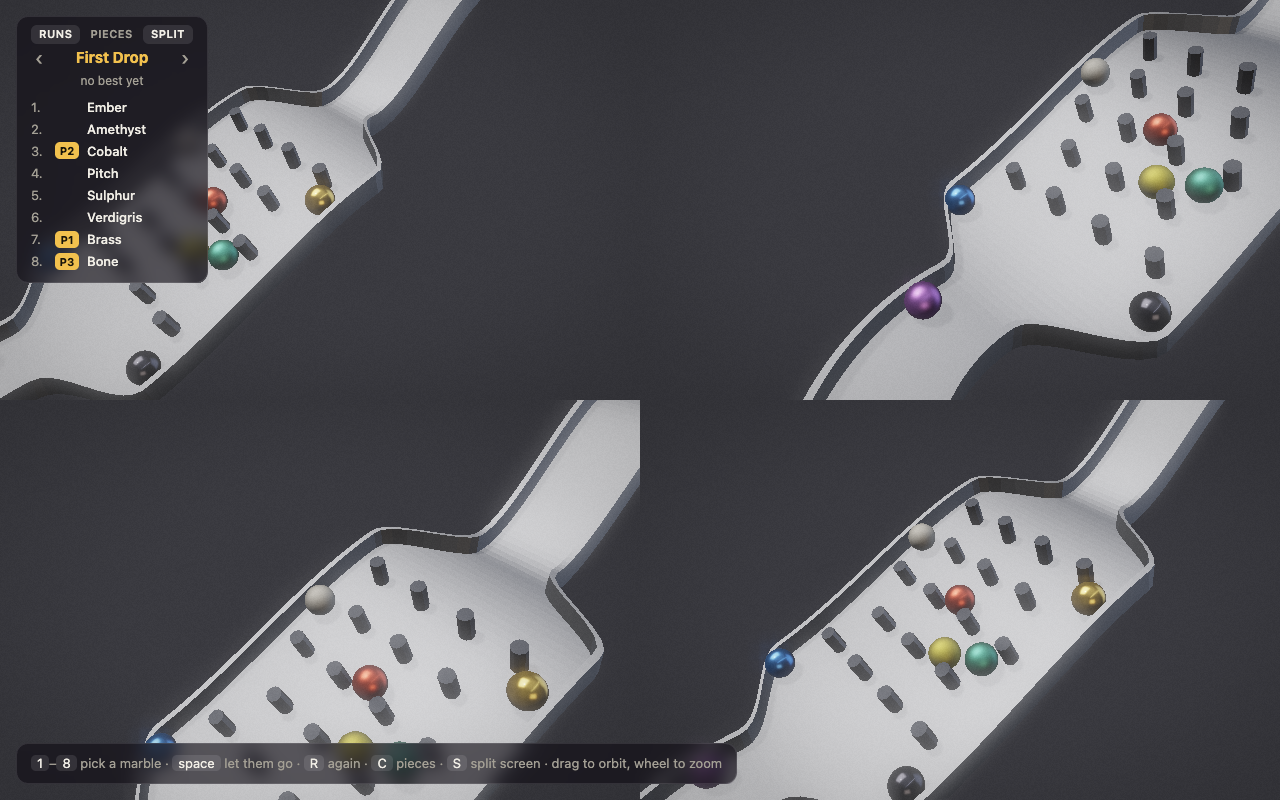
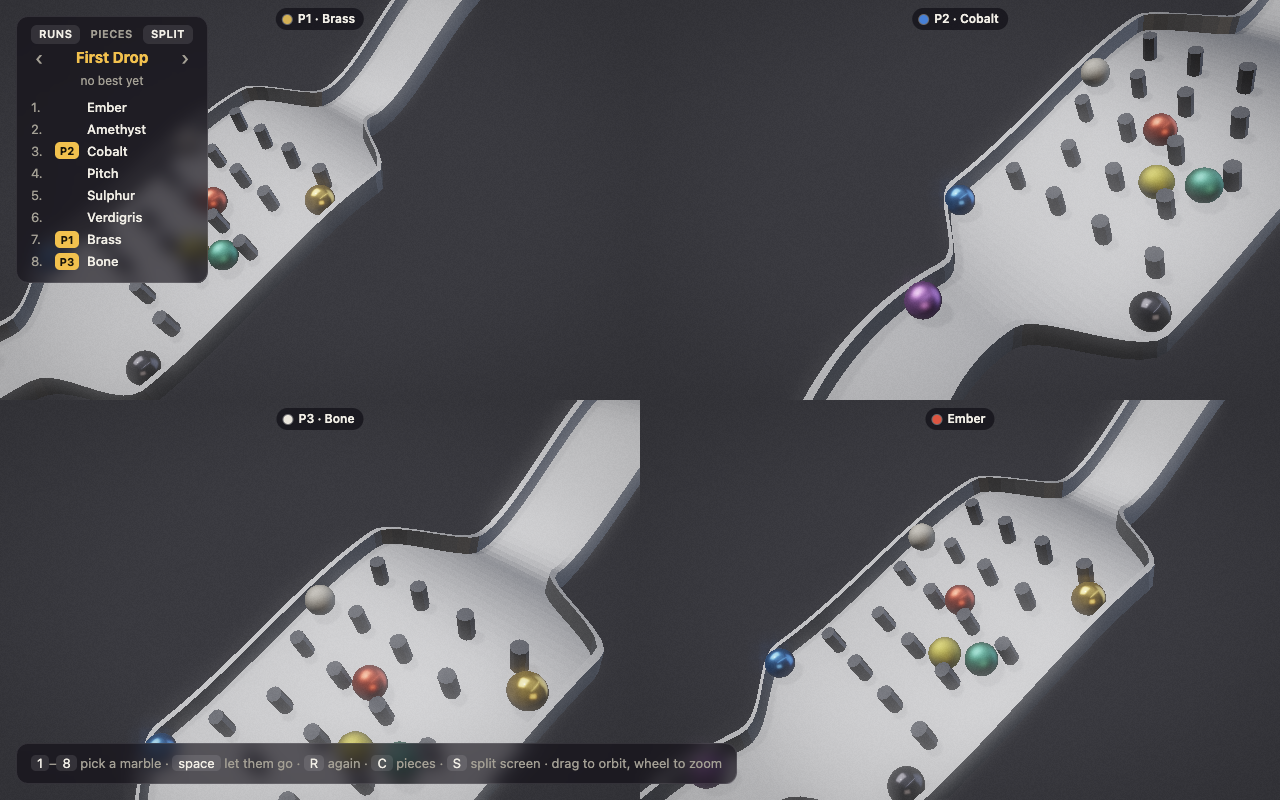
Each quarter of the split screen says which marble it follows
A caption in each quarter names its marble, with the player who picked it
first where somebody did, and a dot of the marble's colour beside it. It sits
over the top of the quarter on a wide screen, where the board, the help line
and the count have the corners, and at the foot of it on an upright one. It
is made once and only its words change, and only when the camera changes
hands; whole again, it is hidden.

The words and the colour are field.ts's: captionOf, and swatchOf, which
lightens the renderer's linear colour for a screen. Only the two split
pictures are written again; every other picture still passes.

diff --git a/src/main.ts b/src/main.ts
@@ -11,7 +11,7 @@ import { LightPool } from 'artshape-render/game/lights';
 import { GameRenderer } from 'artshape-render/game/renderer';
 import { createApi } from './debug';
 import { SLOTS } from './cameras';
-import { nameOf } from './field';
+import { captionOf, nameOf, swatchOf } from './field';
 import { frameCost } from './frame-cost';
 import { ABOUT } from './catalog';
 import { Game, type GameEvents, type Shelf } from './game';
@@ -50,6 +50,7 @@ const order = document.getElementById('order')!;
 const toRuns = document.getElementById('toRuns')!;
 const toPieces = document.getElementById('toPieces')!;
 const toSplit = document.getElementById('toSplit')!;
+const tags = document.getElementById('tags')!;
 const verdict = document.getElementById('verdict')!;
 const stats = document.getElementById('stats')!;
 const help = document.getElementById('help')!;
@@ -255,6 +256,40 @@ async function main() {
       }),
     );
   };
+  /** One caption to a quarter: a dot of the marble's colour and its name. Made once; only the words change. */
+  const captions = Array.from({ length: SLOTS }, () => {
+    const el = document.createElement('span');
+    el.className = 'tag';
+    el.append(document.createElement('i'), document.createTextNode(''));
+    tags.append(el);
+    return { el, marble: -2, player: -2 };
+  });
+  /** The captions put over their quarters for the layout there is, and read again for who is followed. */
+  const place = () => {
+    tags.hidden = !game.split;
+    tags.classList.toggle('stacked', stacked);
+    captions.forEach((c, s) => {
+      c.el.style.left = stacked ? '100%' : `${((s & 1) * 50 + 25).toFixed(1)}%`;
+      c.el.style.top = stacked ? `${((s + 1) * 25).toFixed(1)}%` : `${(s >> 1) * 50}%`;
+      c.el.style.marginTop = stacked ? '-26px' : '8px';
+      c.el.style.marginLeft = stacked ? '-8px' : '0';
+      c.marble = -2;
+    });
+  };
+  /** Each caption says who its camera follows, changing only when it does. */
+  const say = () => {
+    if (!game.split) return;
+    captions.forEach((c, s) => {
+      const marble = game.cameras.marble[s];
+      const player = marble >= 0 ? game.players[marble] : 0;
+      if (c.marble === marble && c.player === player) return;
+      c.marble = marble;
+      c.player = player;
+      c.el.hidden = marble < 0;
+      (c.el.firstChild as HTMLElement).style.background = swatchOf(marble);
+      c.el.lastChild!.textContent = captionOf(marble, player);
+    });
+  };
   const resize = () => {
     const dpr = Math.min(devicePixelRatio || 1, 1.5);
     width = Math.max(1, Math.floor(canvas.clientWidth * dpr));
@@ -262,10 +297,12 @@ async function main() {
     canvas.width = width;
     canvas.height = height;
     layout();
+    place();
   };
   /** The screen split in four or whole again, laid out for it, and the board's button told. */
   const resplit = () => {
     layout();
+    place();
     if (!game.split) frameRun();
     toSplit.classList.toggle('on', game.split);
   };
@@ -417,8 +454,10 @@ async function main() {
     // while they race the camera rides with whoever is in front, easing rather than snapping so a pass is
     // worth watching; before the off and after it, it drifts back to take in the whole run. Written in
     // place, since this is every frame and a new array each time would be garbage sixty times a second.
-    if (game.split) game.cameras.ease(game.marbles, home, CHASE);
-    else if (follow) {
+    if (game.split) {
+      game.cameras.ease(game.marbles, home, CHASE);
+      say();
+    } else if (follow) {
       const m = game.marbles;
       const lead = m.leader();
       cam.target[0] += ((lead >= 0 ? m.x[lead] : home[0]) - cam.target[0]) * CHASE;

diff --git a/smoke/progress.spec.ts b/smoke/progress.spec.ts
@@ -253,6 +253,19 @@ test('the screen split in four follows four marbles through a race, on the key a
   cameras = await page.evaluate(() => window.game!.cameras());
   expect(cameras.marbles.slice(0, 2)).toEqual([6, 2]);
 
+  // each quarter says who it follows, in its own corner of the screen: the picked ones with their player
+  const tags = page.locator('#tags .tag');
+  await expect(page.locator('#tags')).toBeVisible();
+  await expect(tags.nth(0)).toHaveText('P1 · Bone');
+  await expect(tags.nth(1)).toHaveText('P2 · Sulphur');
+  for (let s = 0; s < 4; s++) {
+    await expect(tags.nth(s)).toBeVisible();
+    const box = (await tags.nth(s).boundingBox())!;
+    const centre = { x: box.x + box.width / 2, y: box.y + box.height / 2 };
+    expect(centre.x > 640, `caption ${s} in its quarter, across`).toBe((s & 1) === 1);
+    expect(centre.y > 400, `caption ${s} in its quarter, down`).toBe(s >= 2);
+  }
+
   // raced through, with the rules holding at every stage and no camera on a marble that is not there
   for (let stage = 0; stage < 6; stage++) {
     const seen = await page.evaluate(() => {
@@ -287,6 +300,7 @@ test('the screen split in four follows four marbles through a race, on the key a
   // the board's button puts it whole again, and it follows nobody
   await page.locator('#toSplit').click();
   await expect(page.locator('#toSplit')).not.toHaveClass(/on/);
+  await expect(page.locator('#tags')).toBeHidden();
   cameras = await page.evaluate(() => window.game!.cameras());
   expect(cameras.on).toBe(false);
   expect(cameras.marbles).toEqual([-1, -1, -1, -1]);

diff --git a/index.html b/index.html
@@ -216,6 +216,43 @@
     border-radius: 5px;
     padding: 0 6px;
   }
+  /* what each quarter of the split screen follows: a name and a dot of its colour, in the corner of the quarter
+     that nothing else sits in — over the top on a wide screen, where the board and the help line have the
+     left and the count the right, and at the foot of each on an upright one, where they are all gone or over it */
+  #tags {
+    position: fixed;
+    inset: 0;
+    pointer-events: none;
+  }
+  #tags[hidden] {
+    display: none;
+  }
+  #tags .tag {
+    position: absolute;
+    display: flex;
+    align-items: center;
+    gap: 6px;
+    padding: 2px 9px 2px 7px;
+    border-radius: 999px;
+    background: rgba(12, 11, 18, 0.66);
+    color: var(--ink);
+    font-size: 12px;
+    font-weight: 600;
+    white-space: nowrap;
+    transform: translateX(-50%);
+  }
+  #tags.stacked .tag {
+    transform: translateX(-100%);
+  }
+  #tags .tag[hidden] {
+    display: none;
+  }
+  #tags .tag i {
+    width: 9px;
+    height: 9px;
+    border-radius: 50%;
+    box-shadow: 0 0 0 1px rgba(255, 255, 255, 0.35);
+  }
   #boot {
     position: fixed;
     inset: 0;
@@ -254,6 +291,7 @@
   <ol id="order"></ol>
   <div id="verdict"></div>
 </div>
+<div id="tags" hidden></div>
 <div class="panel" id="stats" hidden></div>
 <div class="panel" id="help" hidden>
   <span>1</span>–<span>8</span> pick a marble · <span>space</span> let them go · <span>R</span> again ·

diff --git a/test/field.test.ts b/test/field.test.ts
@@ -1,0 +1,26 @@
+/** What a quarter of the split screen says about the marble it follows. */
+import { describe, expect, it } from 'vitest';
+import { FIELD, captionOf, nameOf, swatchOf } from '../src/field';
+
+describe('the caption of a followed marble', () => {
+  it('is its name, and the player who picked it first where somebody did', () => {
+    expect(captionOf(4, 0)).toBe('Cobalt');
+    expect(captionOf(4, 2)).toBe('P2 · Cobalt');
+    for (let m = 0; m < FIELD.length; m++) expect(captionOf(m, 0)).toBe(nameOf(m));
+  });
+
+  it('is nothing for a camera on no marble', () => {
+    expect(captionOf(-1, 0)).toBe('');
+    expect(captionOf(-1, 3)).toBe('');
+  });
+
+  it('gives a colour to draw beside it that is the marble’s own, as a screen has it', () => {
+    for (let m = 0; m < FIELD.length; m++) expect(swatchOf(m)).toMatch(/^rgb\(\d{1,3}, \d{1,3}, \d{1,3}\)$/);
+    // Ember is the red one and Cobalt the blue one, and a linear colour is lightened for a screen
+    const rgb = (m: number) => swatchOf(m).match(/\d+/g)!.map(Number);
+    expect(rgb(0)[0]).toBeGreaterThan(rgb(0)[2]);
+    expect(rgb(4)[2]).toBeGreaterThan(rgb(4)[0]);
+    expect(rgb(0)[0]).toBeGreaterThan(Math.round(FIELD[0].colour[0] * 255));
+    expect(swatchOf(-1)).toBe('transparent');
+  });
+});

diff --git a/src/field.ts b/src/field.ts
@@ -35,3 +35,16 @@ export const FIELD: readonly Look[] = [
 export function nameOf(marble: number): string {
   return FIELD[marble % FIELD.length].name;
 }
+
+/** What a camera on `marble` says of it: its name, and the player who picked it first where somebody did; nothing for none. */
+export function captionOf(marble: number, player: number): string {
+  if (marble < 0) return '';
+  return player > 0 ? `P${player} · ${nameOf(marble)}` : nameOf(marble);
+}
+
+/** The marble's colour for a page to draw with: the renderer's is linear, and a screen wants it lightened. */
+export function swatchOf(marble: number): string {
+  if (marble < 0) return 'transparent';
+  const [r, g, b] = FIELD[marble % FIELD.length].colour.map((c) => Math.round(255 * c ** (1 / 2.2)));
+  return `rgb(${r}, ${g}, ${b})`;
+}

diff --git a/CLAUDE.md b/CLAUDE.md
@@ -202,8 +202,10 @@ What to copy the shape of, when building something new:
   A way of looking and nothing the race feels: not saved, no marble touched,
   the same seed the same race with it on or off, which a test holds it to.
   `S` and the board's Split tab turn it on; `split()` and `cameras()` are the
-  test API. Not done: nothing tells you which marble a quarter follows,
-  and on a phone the board covers the first quarter.
+  test API. A caption in each quarter (`#tags`, `captionOf` and
+  `swatchOf` in `field.ts`) names its marble and the player who picked it,
+  over the top of it on a wide screen and at the foot of it on an upright
+  one. Not done: on a phone the board covers the first quarter.
 - **The end of the run:** `finish` is the line and a lane one marble wide
   behind it. A marble is placed as it crosses, by which crossed first in
   the step, and rolls on down the lane (`lane` in `marbles.ts`) to wait a
